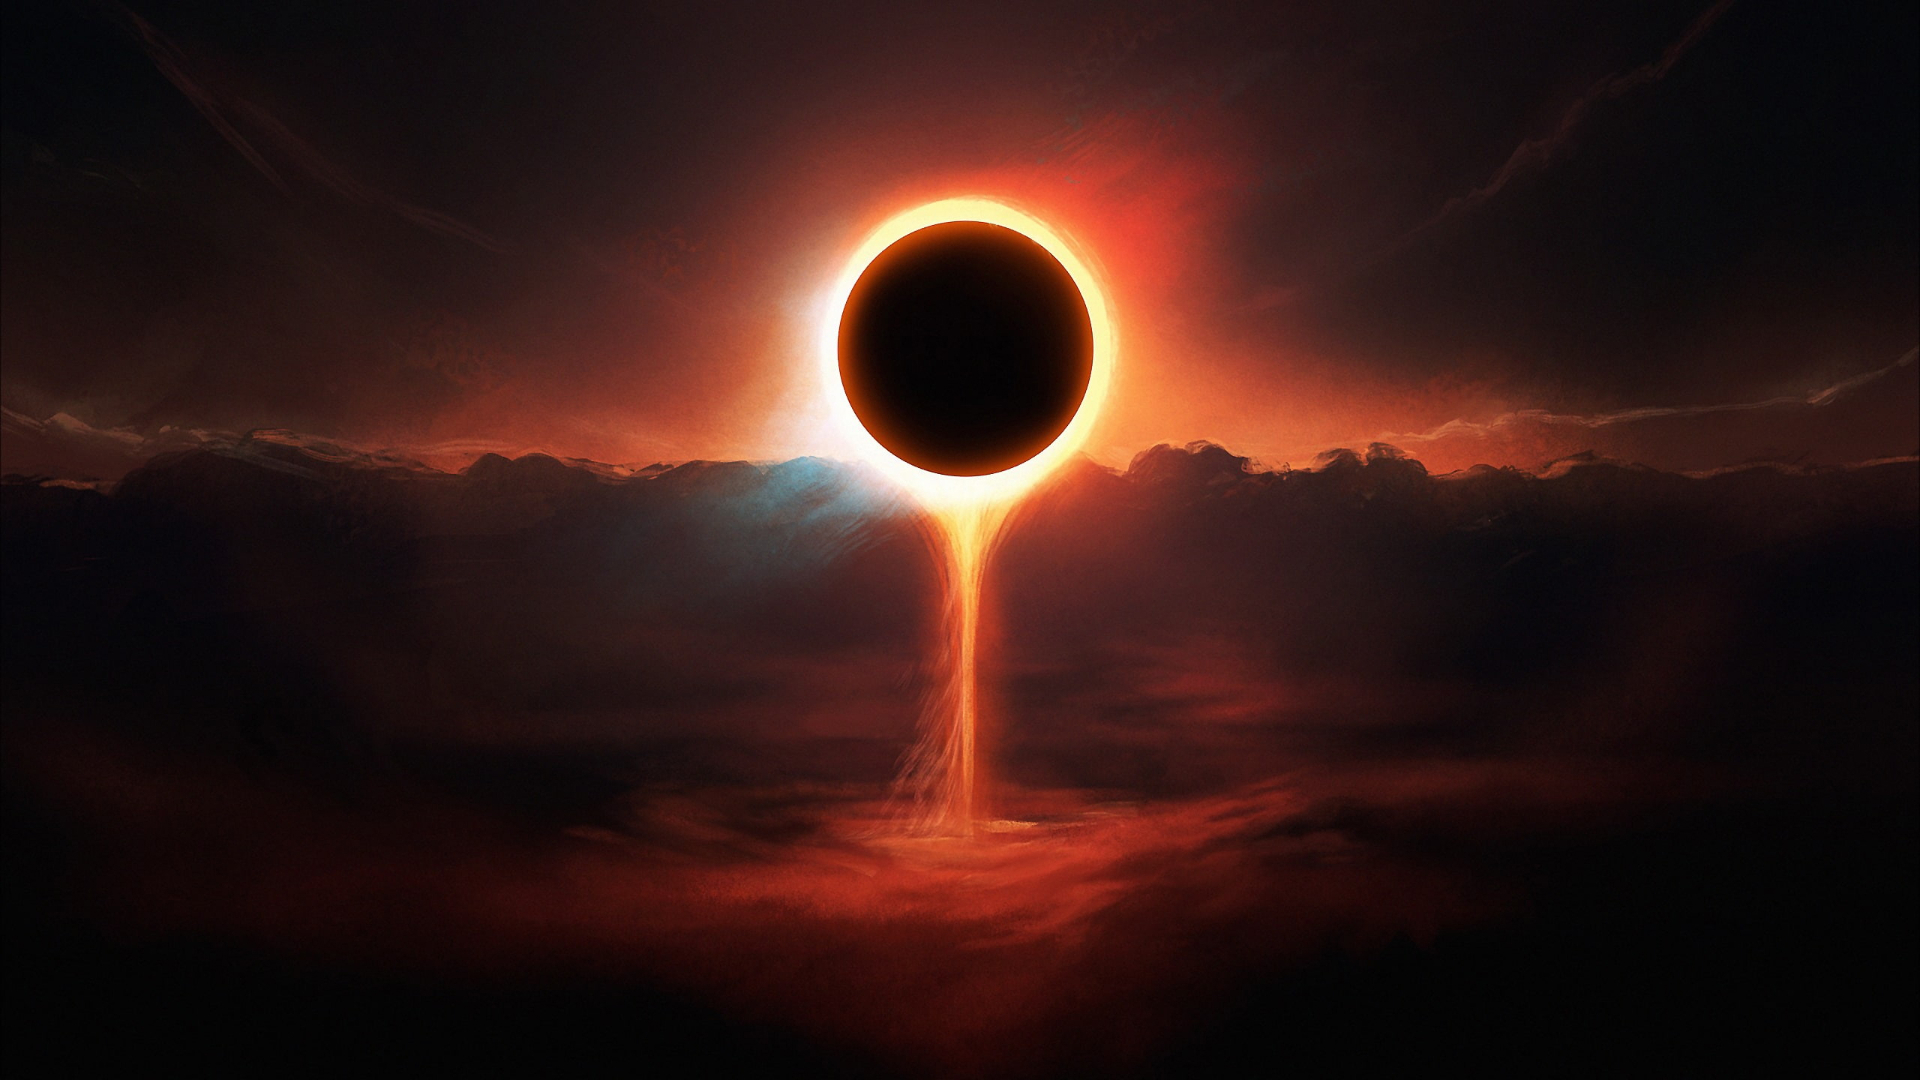
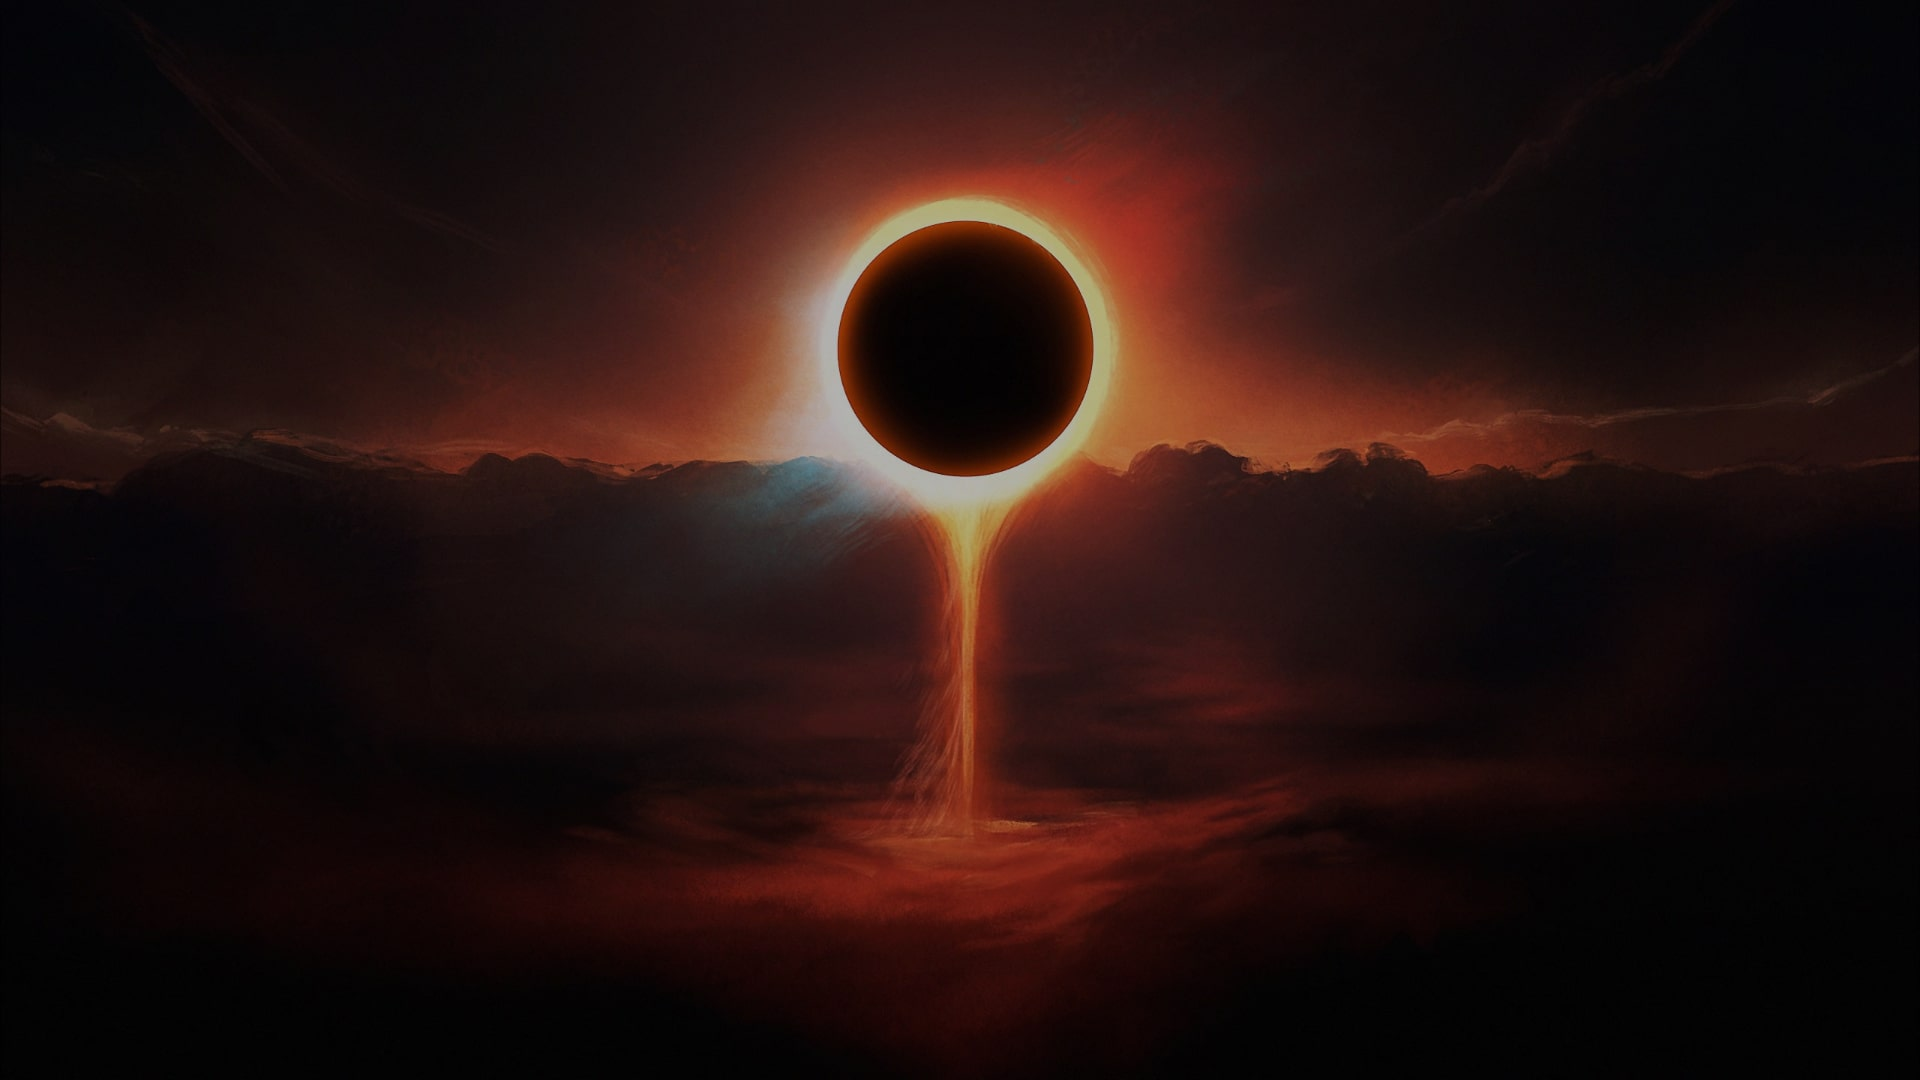
Se optimizaron imagenes

diff --git a/css/style.css b/css/style.css
@@ -217,24 +217,6 @@ p {
     height: 250px;
     
 }
-.animacionUno {
-    animation: lightSpeedInLeft 2s;
-}
-.animacionDos {
-    animation: lightSpeedInLeft 2s;
-}
-.animacionTres {
-    animation: lightSpeedInLeft 2s;
-}
-.animacionCuatro {
-    animation: lightSpeedInLeft 6s;
-}
-.animacionCinco {
-    animation: lightSpeedInLeft 2s;
-}
-.animacionSeis {
-    animation: lightSpeedInLeft 2s;
-}
 
 /* Estilos para la pagina de victoria*/
 .bannerVictoria {
